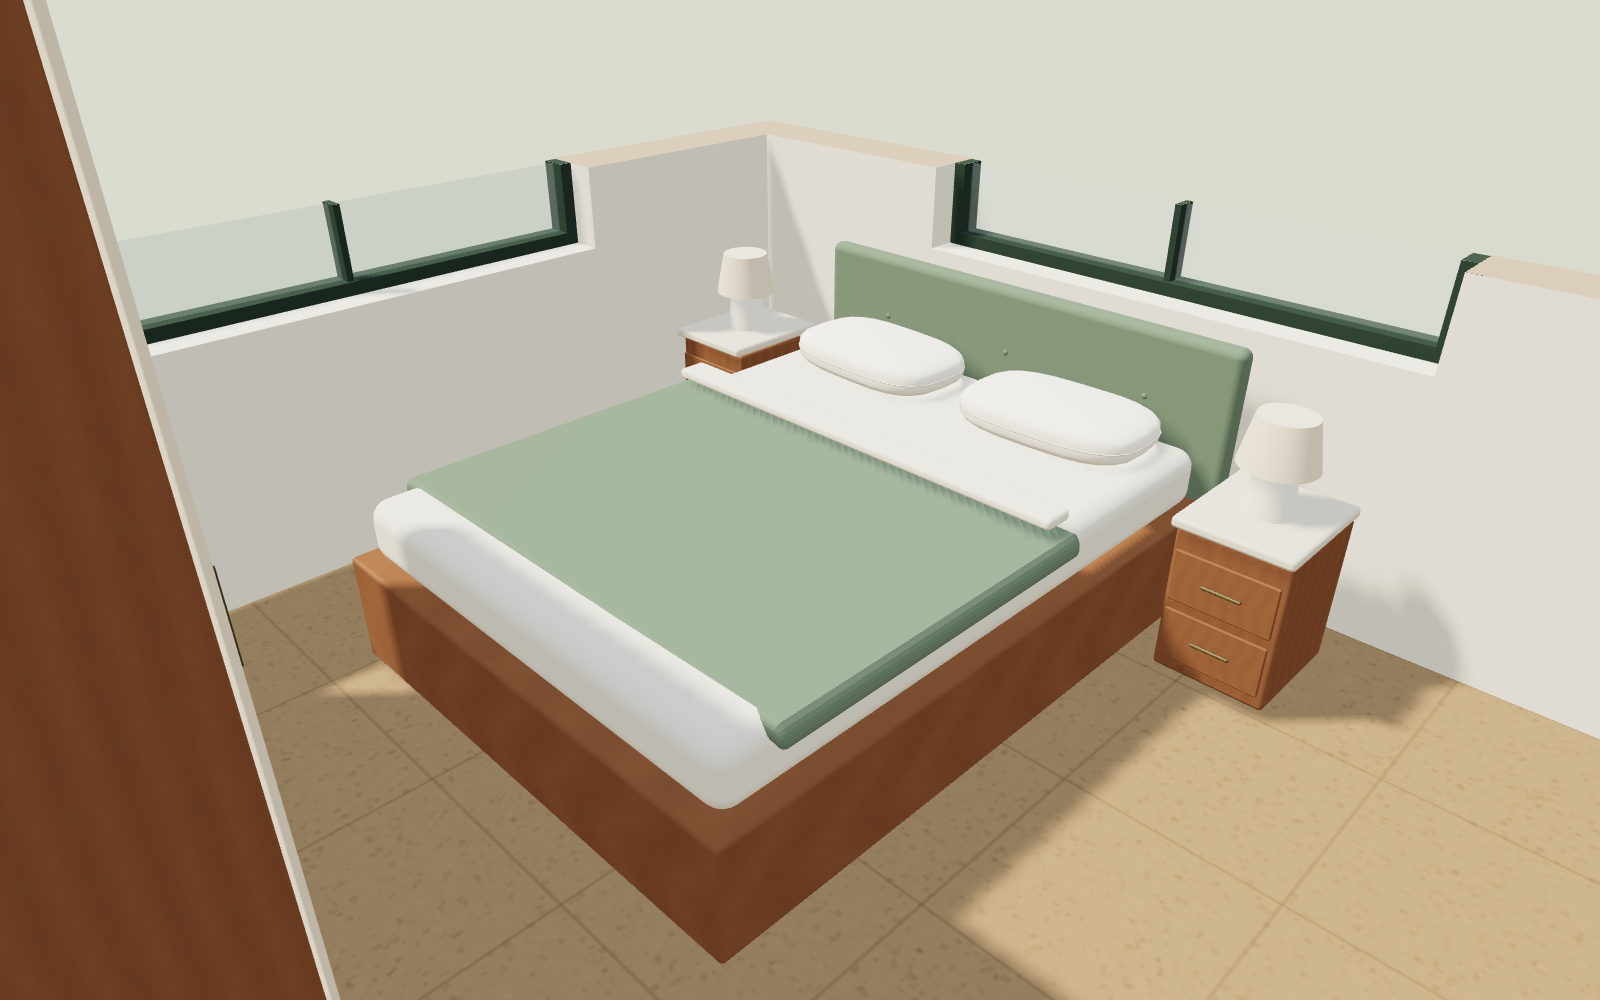
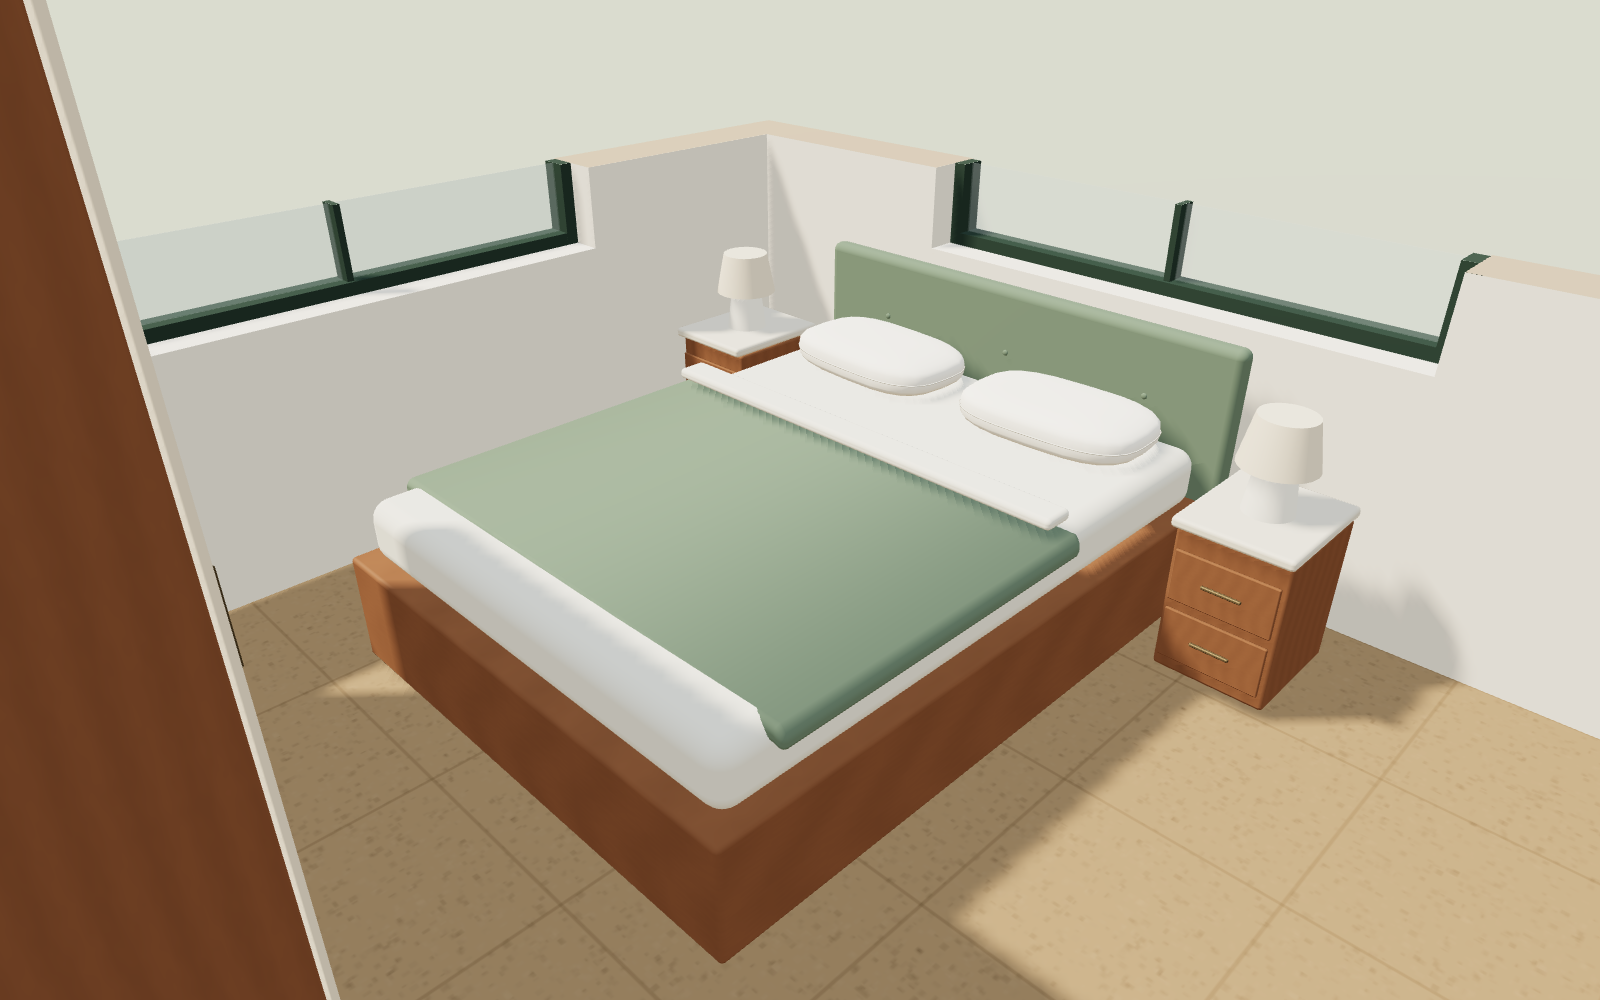
Preserve smooth shading on draped bedding
Transform smooth bevel normals with the fabric deformation rather than introducing flat triangle seams; refresh matched review captures.

Changed region(s): [[0.4375, 0.496, 0.6562, 0.744]]

diff --git a/output/furnishings.js b/output/furnishings.js
@@ -107,13 +107,18 @@ export function createFurnishings(model){
    box(g,5.6,.24,2.9,cx,head,F+1.55,M.cushion);
    const quilt=box(g,5.32,3.8,.18,cx,cy-sign*.95,F+1.98,M.cushion);
    quilt.geometry=cached('draped-duvet',()=>{
-    const shape=quilt.geometry.clone(),p=shape.attributes.position;
+    const shape=quilt.geometry.clone(),p=shape.attributes.position,n=shape.attributes.normal;
+    shape.name='Draped duvet';
     for(let i=0;i<p.count;i++){
      const x=p.getX(i)/FT,z=p.getZ(i)/FT;
      const drop=.22*Math.max(0,(Math.abs(x)-2.41)/.25);
      p.setY(i,p.getY(i)+(Math.sin(x*3+z*2)*.012-drop)*FT);
+     // Transform the original smooth normals with the height-field deformation.
+     const dx=.036*Math.cos(x*3+z*2)-(Math.abs(x)>2.41?.88*Math.sign(x):0);
+     const dz=.024*Math.cos(x*3+z*2),normal=new THREE.Vector3(n.getX(i)-dx*n.getY(i),n.getY(i),n.getZ(i)-dz*n.getY(i)).normalize();
+     n.setXYZ(i,normal.x,normal.y,normal.z);
     }
-    shape.computeVertexNormals();return shape;
+    return shape;
    });
    box(g,5.05,.34,.12,cx,cy+sign*.73,F+2.08,M.linen);
    for(const dx of [-1.8,0,1.8])for(const z of [1.25,2.25])
